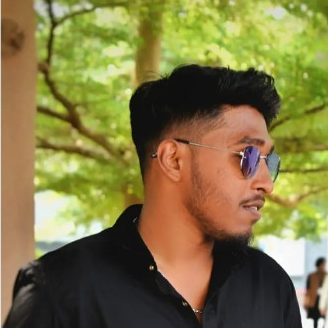
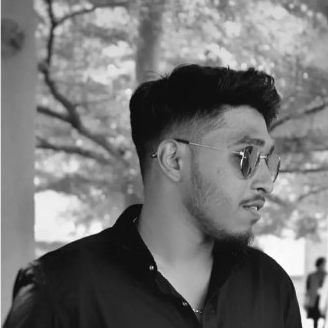
Convert second image (about-pic) to elegant greyscale

diff --git a/style.css b/style.css
@@ -339,6 +339,8 @@ section {
   object-fit: cover;
   border: 4px solid #e2e8f0;
   box-shadow: 0 15px 30px rgba(0,0,0,0.06);
+  filter: grayscale(100%);
+  -webkit-filter: grayscale(100%);
 }
 
 .about-details-container {
